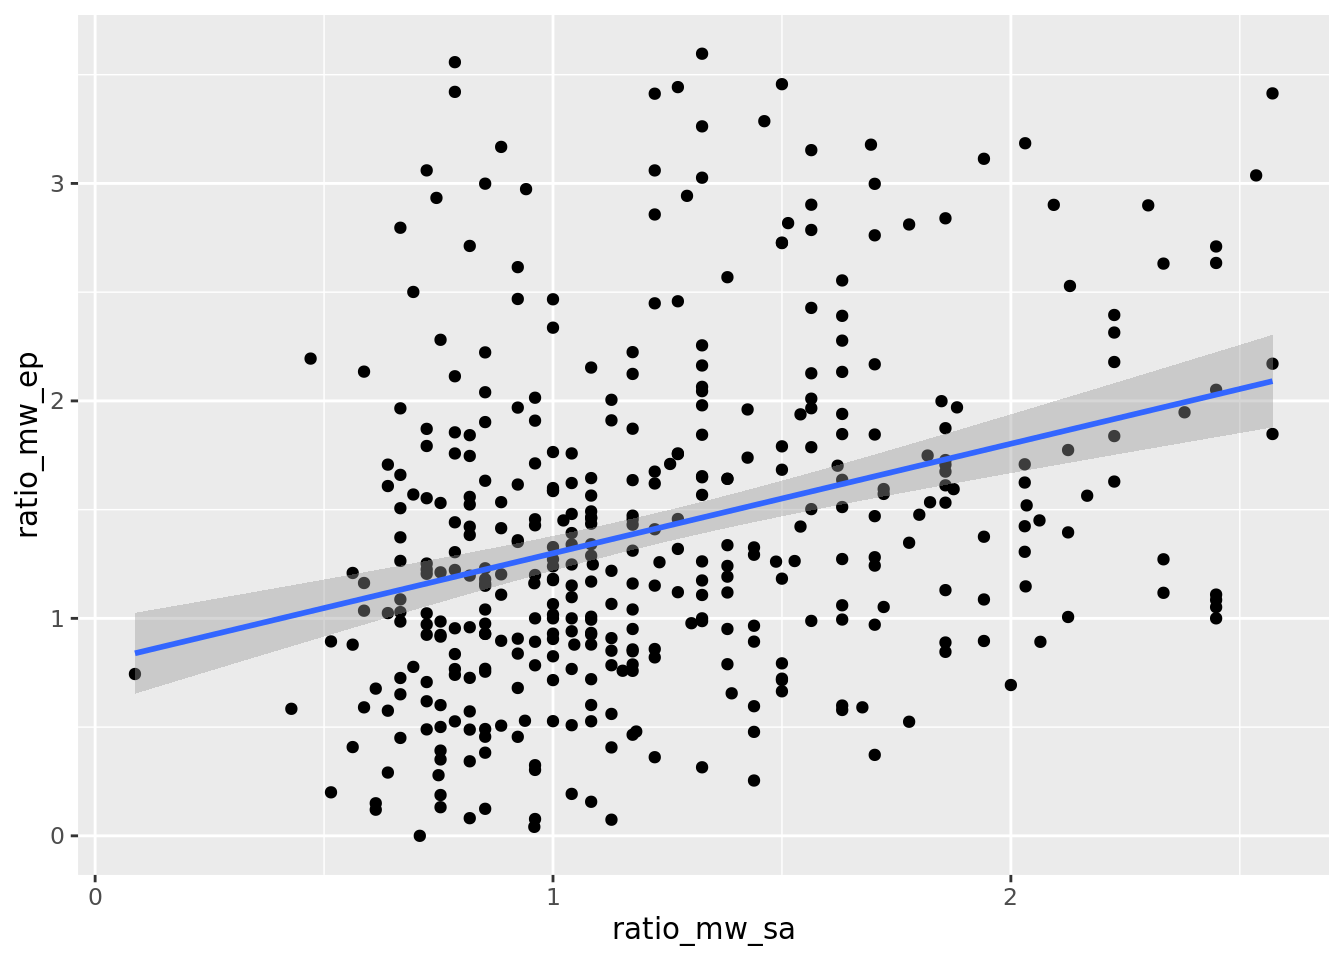
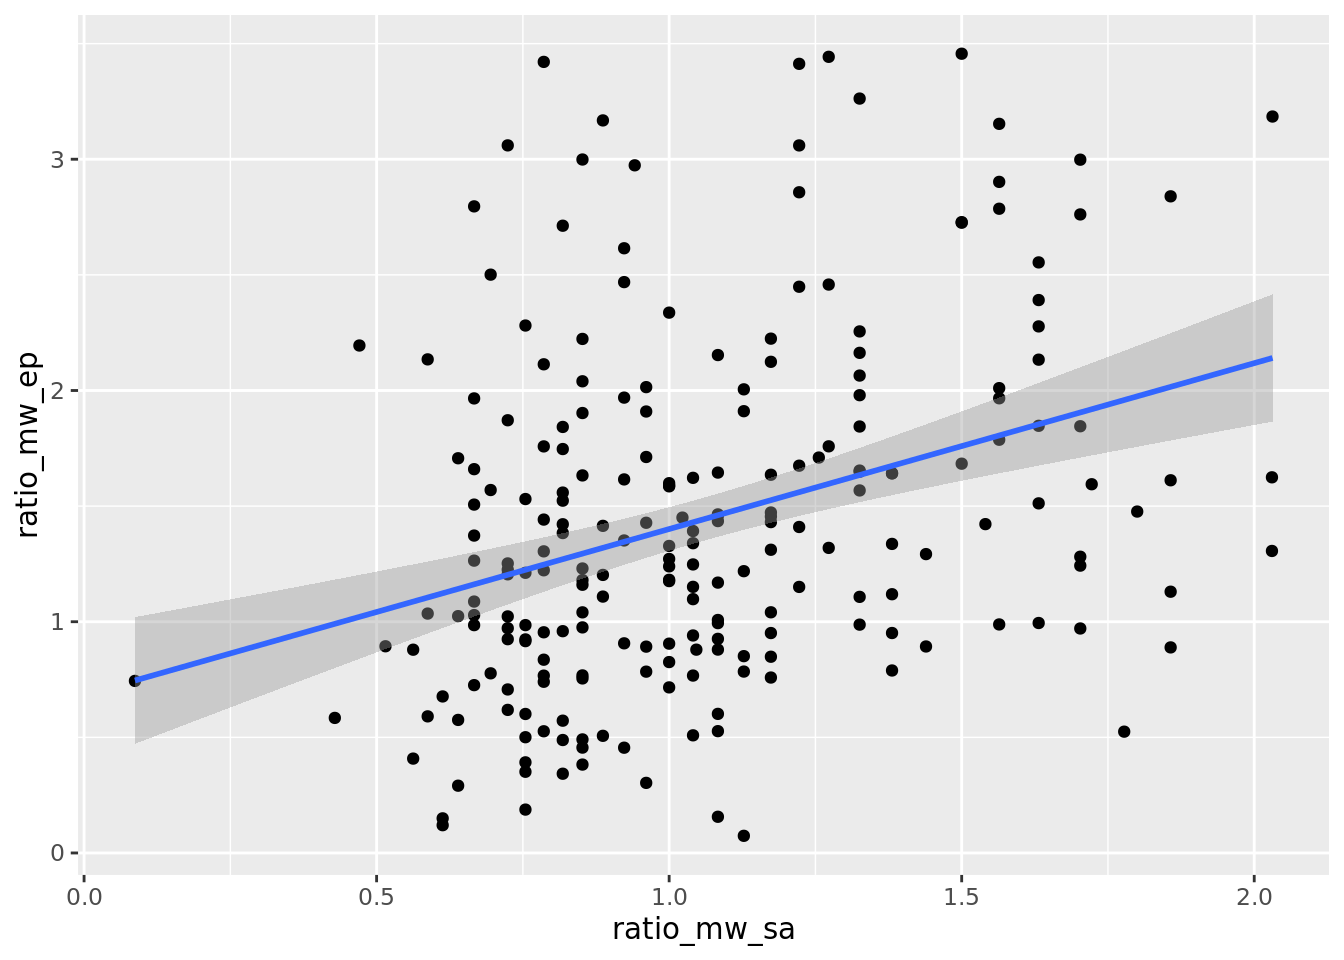
Finished Project Report

diff --git a/docs/report.html b/docs/report.html
@@ -212,7 +212,7 @@ code span.wa { color: #60a0b0; font-weight: bold; font-style: italic; } /* Warni
 ✖ dplyr::lag()      masks stats::lag()
 ✖ yardstick::spec() masks readr::spec()
 ✖ recipes::step()   masks stats::step()
-• Use tidymodels_prefer() to resolve common conflicts.</code></pre>
+• Search for functions across packages at https://www.tidymodels.org/find/</code></pre>
 </div>
 </div>
 <div class="cell">
@@ -303,7 +303,7 @@ $ ratio_mw_ep         &lt;dbl&gt; 1.1985337, 2.4287042, 1.3413262, 1.3052437, 6.
 <span id="cb7-22"><a href="#cb7-22" aria-hidden="true" tabindex="-1"></a>eada_NCAA <span class="ot">&lt;-</span> <span class="fu">subset</span>(eada_NCAA, eada_NCAA<span class="sc">$</span>ratio_mw_sa<span class="sc">&gt;</span> (Q1_NCAA_sa <span class="sc">-</span> <span class="fl">1.5</span><span class="sc">*</span>IQR_NCAA_sa) <span class="sc">&amp;</span> eada_NCAA<span class="sc">$</span>ratio_mw_sa<span class="sc">&lt;</span> (Q3_NCAA_sa <span class="sc">+</span> <span class="fl">1.5</span><span class="sc">*</span>IQR_NCAA_sa))</span></code><button title="Copy to Clipboard" class="code-copy-button"><i class="bi"></i></button></pre></div>
 </div>
 <div class="cell">
-<div class="sourceCode cell-code" id="cb8"><pre class="sourceCode r code-with-copy"><code class="sourceCode r"><span id="cb8-1"><a href="#cb8-1" aria-hidden="true" tabindex="-1"></a>eada_private <span class="ot">&lt;-</span> eada <span class="sc">|&gt;</span></span>
+<div class="sourceCode cell-code" id="cb8"><pre class="sourceCode r code-with-copy"><code class="sourceCode r"><span id="cb8-1"><a href="#cb8-1" aria-hidden="true" tabindex="-1"></a>eada_private <span class="ot">&lt;-</span> eada_NCAA <span class="sc">|&gt;</span></span>
 <span id="cb8-2"><a href="#cb8-2" aria-hidden="true" tabindex="-1"></a>  <span class="fu">filter</span>(sector_name <span class="sc">==</span> <span class="st">"Private nonprofit, 4-year or above"</span> <span class="sc">|</span> </span>
 <span id="cb8-3"><a href="#cb8-3" aria-hidden="true" tabindex="-1"></a>         sector_name <span class="sc">==</span> <span class="st">"Private for-profit, 4-year or above"</span>)</span>
 <span id="cb8-4"><a href="#cb8-4" aria-hidden="true" tabindex="-1"></a></span>
@@ -323,7 +323,7 @@ $ ratio_mw_ep         &lt;dbl&gt; 1.1985337, 2.4287042, 1.3413262, 1.3052437, 6.
 <span id="cb8-18"><a href="#cb8-18" aria-hidden="true" tabindex="-1"></a>eada_private <span class="ot">&lt;-</span> <span class="fu">subset</span>(eada_private, eada_private<span class="sc">$</span>ratio_mw_sa<span class="sc">&gt;</span> (Q1_priv_sa <span class="sc">-</span> <span class="fl">1.5</span><span class="sc">*</span>IQR_priv_sa) <span class="sc">&amp;</span> eada_private<span class="sc">$</span>ratio_mw_sa<span class="sc">&lt;</span> (Q3_priv_sa <span class="sc">+</span> <span class="fl">1.5</span><span class="sc">*</span>IQR_priv_sa))</span></code><button title="Copy to Clipboard" class="code-copy-button"><i class="bi"></i></button></pre></div>
 </div>
 <div class="cell">
-<div class="sourceCode cell-code" id="cb9"><pre class="sourceCode r code-with-copy"><code class="sourceCode r"><span id="cb9-1"><a href="#cb9-1" aria-hidden="true" tabindex="-1"></a>eada_public <span class="ot">&lt;-</span> eada <span class="sc">|&gt;</span></span>
+<div class="sourceCode cell-code" id="cb9"><pre class="sourceCode r code-with-copy"><code class="sourceCode r"><span id="cb9-1"><a href="#cb9-1" aria-hidden="true" tabindex="-1"></a>eada_public <span class="ot">&lt;-</span> eada_NCAA <span class="sc">|&gt;</span></span>
 <span id="cb9-2"><a href="#cb9-2" aria-hidden="true" tabindex="-1"></a>  <span class="fu">filter</span>(sector_name <span class="sc">==</span> <span class="st">"Public, 4-year or above"</span> <span class="sc">|</span> </span>
 <span id="cb9-3"><a href="#cb9-3" aria-hidden="true" tabindex="-1"></a>         sector_name <span class="sc">==</span> <span class="st">"Public, 2-year"</span>)</span>
 <span id="cb9-4"><a href="#cb9-4" aria-hidden="true" tabindex="-1"></a></span>
@@ -517,8 +517,8 @@ $ ratio_mw_ep         &lt;dbl&gt; 1.1985337, 2.4287042, 1.3413262, 1.3052437, 6.
 <span id="cb25-4"><a href="#cb25-4" aria-hidden="true" tabindex="-1"></a>  <span class="fu">glance</span>() <span class="sc">|&gt;</span></span>
 <span id="cb25-5"><a href="#cb25-5" aria-hidden="true" tabindex="-1"></a>  <span class="fu">pull</span>(AIC, r.squared)</span></code><button title="Copy to Clipboard" class="code-copy-button"><i class="bi"></i></button></pre></div>
 <div class="cell-output cell-output-stdout">
-<pre><code>0.0997219550028297 
-           877.346 </code></pre>
+<pre><code>0.112223105145674 
+         490.8492 </code></pre>
 </div>
 </div>
 <p>Public Schools</p>
@@ -542,8 +542,8 @@ $ ratio_mw_ep         &lt;dbl&gt; 1.1985337, 2.4287042, 1.3413262, 1.3052437, 6.
 <span id="cb29-4"><a href="#cb29-4" aria-hidden="true" tabindex="-1"></a>  <span class="fu">glance</span>() <span class="sc">|&gt;</span></span>
 <span id="cb29-5"><a href="#cb29-5" aria-hidden="true" tabindex="-1"></a>  <span class="fu">pull</span>(AIC, r.squared)</span></code><button title="Copy to Clipboard" class="code-copy-button"><i class="bi"></i></button></pre></div>
 <div class="cell-output cell-output-stdout">
-<pre><code>0.0887156536070318 
-          1726.287 </code></pre>
+<pre><code>0.0818346252647914 
+          869.6874 </code></pre>
 </div>
 </div>
 <p>Football Schools</p>
@@ -671,6 +671,10 @@ $ ratio_mw_ep         &lt;dbl&gt; 1.1985337, 2.4287042, 1.3413262, 1.3052437, 6.
          -1.120288 </code></pre>
 </div>
 </div>
+<p><strong>Results</strong></p>
+<p>This prediction model was aimed at testing whether the financial allocation universities spent on athletic scholarship could predict the amount they allocated for recruitment. We filtered the data through three different variables: whether the school had a football program or not, whether the school was public or private, and whether the school was Division I, II, or III.</p>
+<p>It is important to note the biases that may have effected the data outcome. Division III schools do not allocate any money towards athletic scholarships. Furthermore, financial capabilities widely vary between public and private schools, as well as, how much income the school makes from their athletic programs.</p>
+<p>After filtering the data, we ran an AIC metric on all the subsets of the data to compare the different regression models. There was a more accurate trend observed in the private vs.&nbsp;public data-set, meaning that model offers the best fit. Amongst all the graphs, there is a low positive correlation observed. Then we ran an R squared test. This would tell us the significance in the correlation between the two variables: scholarship funds versus recruitment funds. The R squared test revealed that there is a very insignificant correlation between the two chosen variables.</p>
 
 
 
